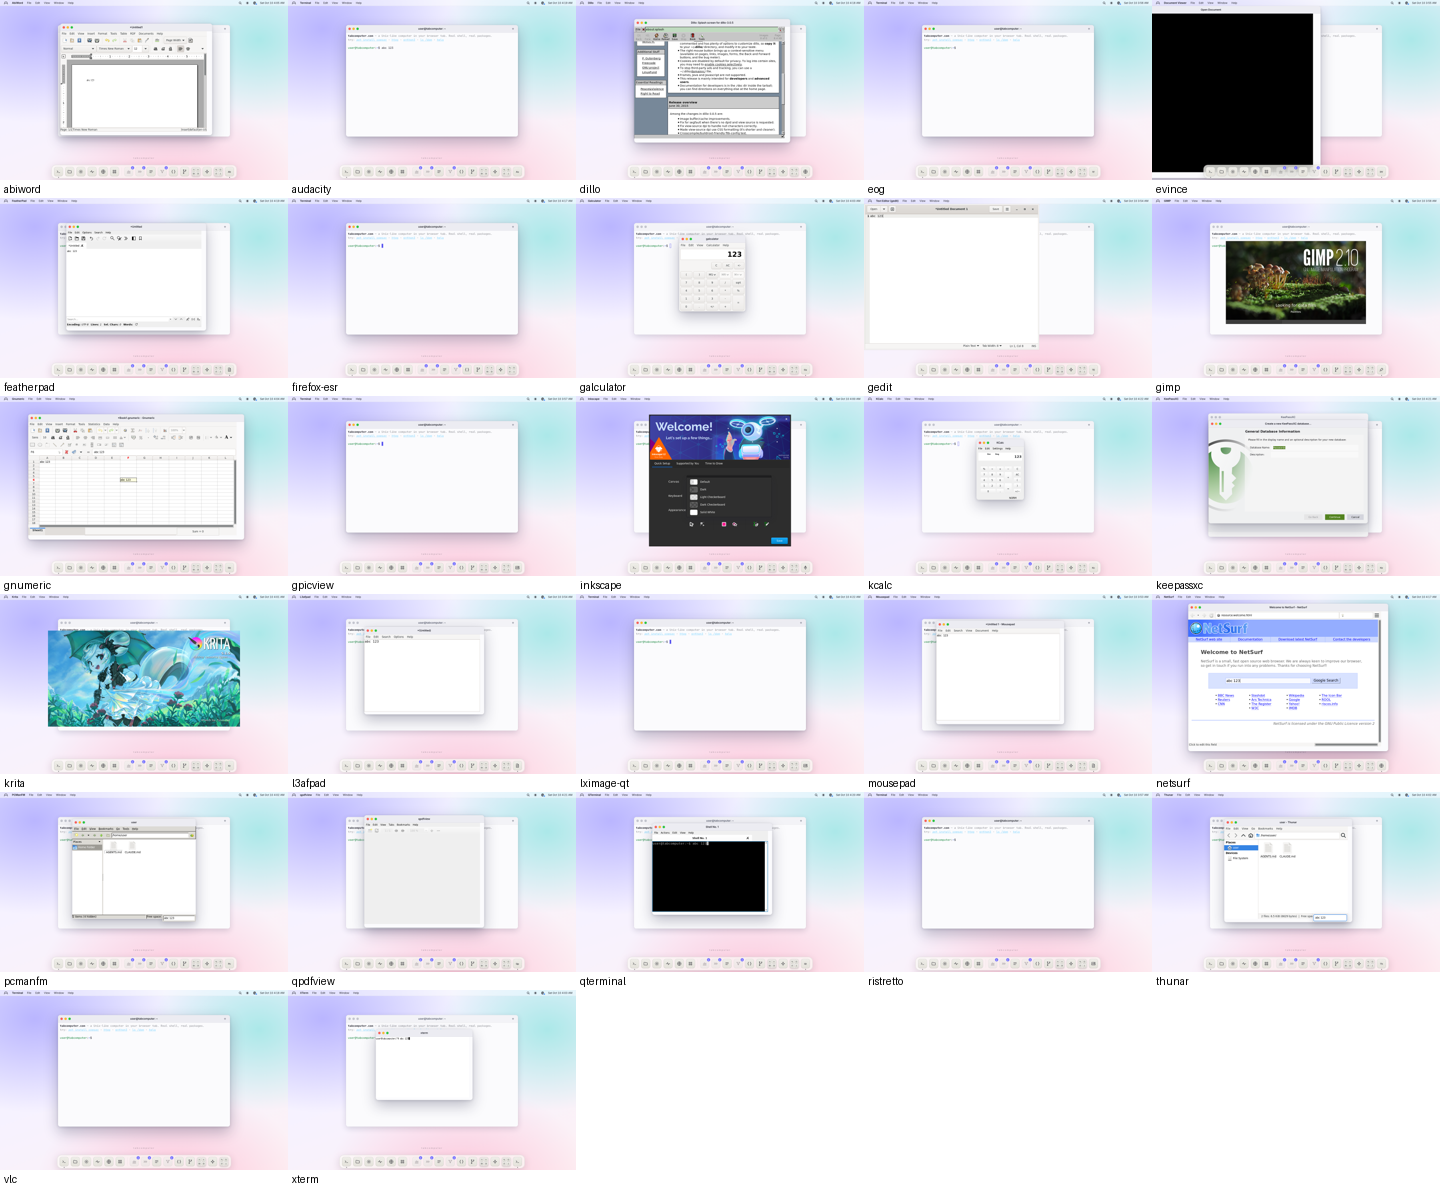
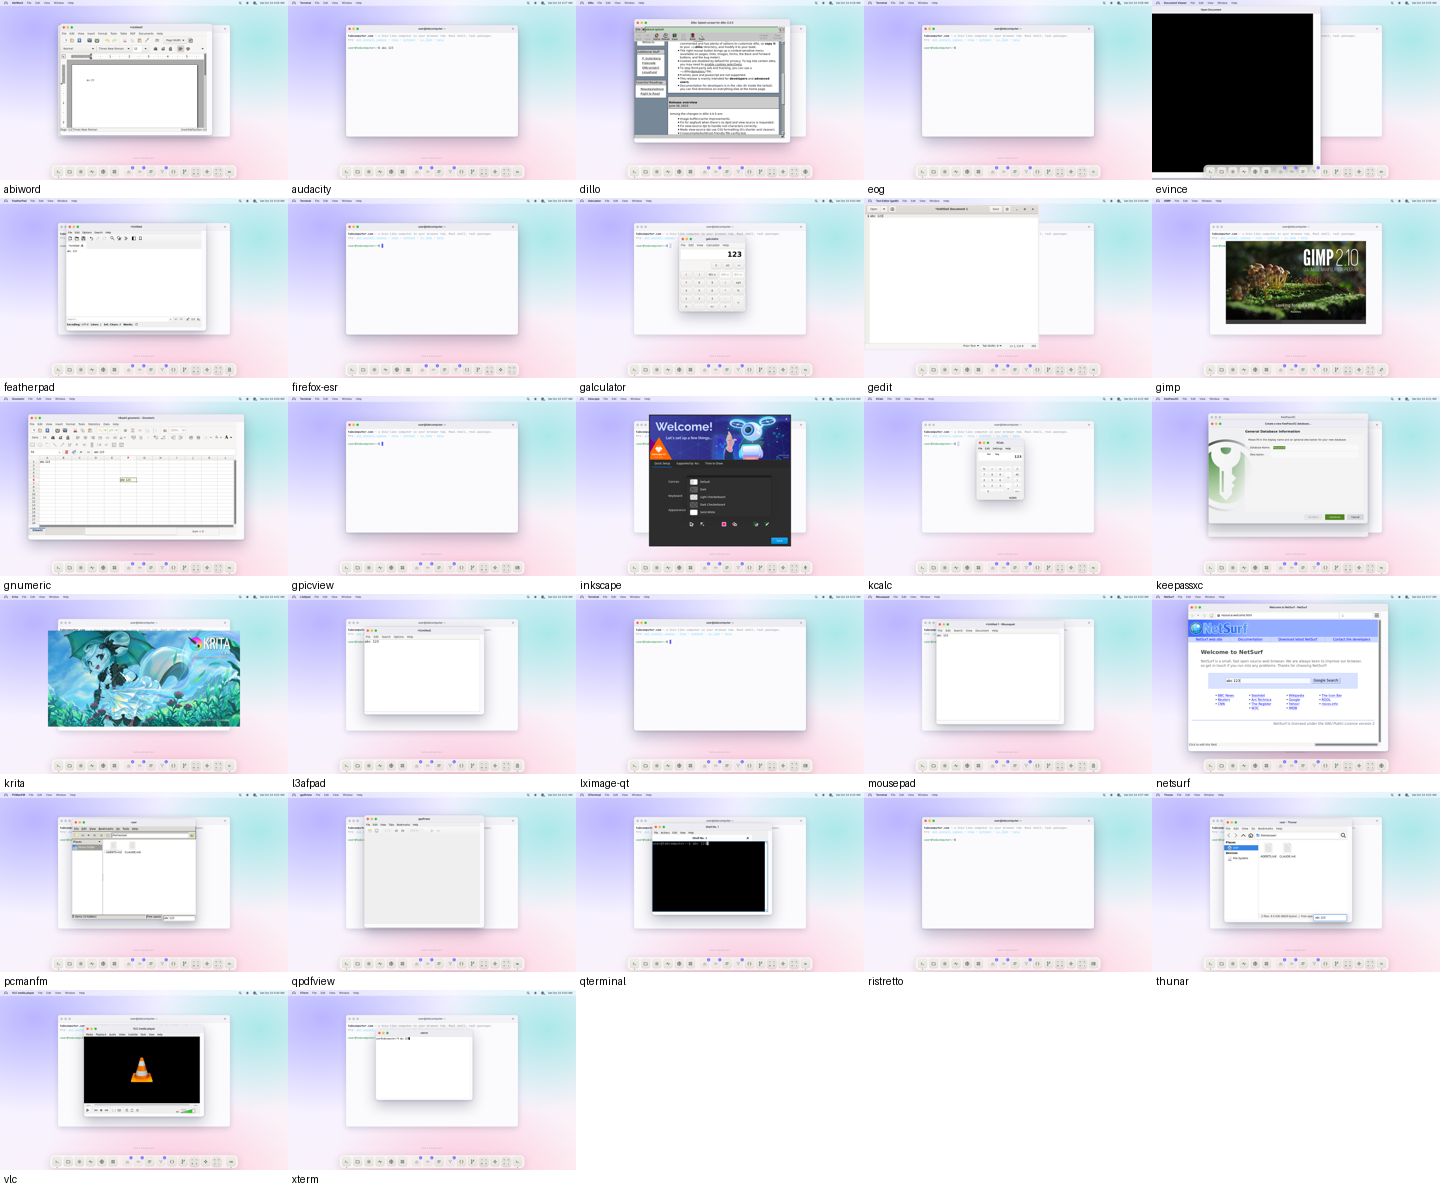
gui: Audacity and VLC run (engine fixes); scoreboard 27/26/20/20 of 29
Audacity is back in the Apps window. The render check looks at all of an
app's windows (VLC's largest surface is its blank video window).

Claude-Session: https://claude.ai/code/session_01BTnm46q6Kk6gwKSSRHohXj

Changed region(s): [[0.0312, 0.8721, 0.1562, 0.9655]]

diff --git a/src/gui/desktop-apps.ts b/src/gui/desktop-apps.ts
@@ -33,8 +33,7 @@ const APPS: [string, string, string, boolean, string?][] = [
   ['gnumeric', 'Gnumeric', 'gui/icons/gnumeric.png', true],
   ['abiword', 'AbiWord', 'gui/icons/abiword.png', true],
   ['keepassxc', 'KeePassXC', 'gui/icons/keepassxc.svg', true],
-  // stops at startup: SysV shared memory isn't there yet (docs/GUI_SCORE.md)
-  ['audacity', 'Audacity', '♫', false],
+  ['audacity', 'Audacity', '♫', true, 'first start takes a minute'],
   ['xterm', 'XTerm', 'gui/icons/xterm.svg', true],
   ['qterminal', 'QTerminal', '›_', true],
   ['xeyes', 'xeyes', '◉', true],

diff --git a/docs/GUI_SCORE.md b/docs/GUI_SCORE.md
@@ -4,7 +4,7 @@ Debian 12 GUI apps installed from the streaming manifest (`public/gui/apps.json`
 
 Columns: **installs**; **window**: a desktop window appears, with the time from launch (installed) to it; **renders**: its largest window isn't one flat colour after 8 s; **input**: focusing it and typing `abc 123` changes its pixels (or, if not, clicking into its middle and typing does, or Ctrl+O opens a window or changes them); **text**: the DOM text layer has spans for it (GTK via libshiro-text-hook.so, core X text; Qt and others draw pixels only).
 
-**29/29 install, 26/29 open a window, 24/29 render, 19/29 react to input, 19/29 have DOM text.**
+**29/29 install, 27/29 open a window, 26/29 render, 20/29 react to input, 20/29 have DOM text.**
 
 
 ### Editors & viewers
@@ -26,7 +26,7 @@ Columns: **installs**; **window**: a desktop window appears, with the time from 
 | gimp | gtk2 | 66.1 MB | 8.9 s | ✓ | 34 s | ✓ | ✓ | ✓ (2) |  |
 | inkscape | gtk3 | 83 MB | 14 s | ✓ | 54 s | ✓ | ✓ | ✓ (18) |  |
 | krita | qt5 | 118.3 MB | 8.4 s | ✓ | 14 s | ✓ | ✗ | ✓ (1) | input: its start screen has nothing to type into (passed in one run of three) |
-| blender | gl | 231.5 MB | 19 s | ✗ | – | – | – | – | exited (status 134) before a window; past OpenCV's CPU check (engine fix); now glibc aborts on PI-mutex futex ops (EINVAL in the x86 engine, reported) |
+| blender | gl | 231.5 MB | 18 s | ✗ | – | – | – | – | exited (status 134) before a window; past OpenCV's CPU check (engine fix); now glibc aborts on PI-mutex futex ops (EINVAL in the x86 engine, reported) |
 
 ### Desktop
 
@@ -49,11 +49,11 @@ Columns: **installs**; **window**: a desktop window appears, with the time from 
 
 | App | Toolkit | Download | Install | Window | First window | Renders | Input | Text | Notes |
 |---|---|---:|---:|:-:|---:|:-:|:-:|:-:|---|
-| firefox-esr | gtk3 | 125.1 MB | 22 s | ✓ | 246 s | ✗ | – | ✗ | past the getaddrinfo abort (fixed): its window opens after minutes, still blank; content processes crash (SIGSEGV) |
+| firefox-esr | gtk3 | 125.1 MB | 30 s | ✓ | 257 s | ✗ | – | ✗ | past the getaddrinfo abort (fixed): a blank window after minutes, gone seconds later; content processes crash (SIGSEGV) |
 | netsurf | gtk3 | 56.6 MB | 7.2 s | ✓ | 13 s | ✓ | ✓ | ✓ (42) |  |
 | dillo | fltk | 11.4 MB | 1.4 s | ✓ | 5.1 s | ✓ | ✓ | ✗ | FLTK draws its text as pixels |
-| vlc | qt5 | 39.4 MB | 4.7 s | ✓ | 12 s | ✗ | – | ✗ | quits at once: sigwait() is ENOSYS in the x86 engine (reported) |
-| audacity | gtk3 | 64.3 MB | 7.7 s | ✗ | – | – | – | – | error window: “Audacity Startup Failure”; SysV semaphores aren't forwarded by the x86 engine yet (shared memory is) |
+| vlc | qt5 | 39.4 MB | 5.1 s | ✓ | 13 s | ✓ | ✓ | ✓ (11) |  |
+| audacity | gtk3 | 64.3 MB | 7.9 s | ✓ | 37 s | ✓ | ✗ | ✗ | its first window is the first-run plugin scan; the main window follows (~70 s); wxWidgets text isn't reported |
 
 ### Qt
 
@@ -141,6 +141,15 @@ Second round (after the first scoreboard; the coordinator's list):
   `icon-theme.cache` for it. The installer now writes GTK's cache format
   itself (`src/gui/icon-cache.ts`) whenever a package adds icons there.
 
+- **Audacity and VLC run** on the engine fixes that followed the reports:
+  SysV shared memory and semaphores (Blink 0069/0077 and the kernel's
+  sysvsem) for Audacity's single-instance lock, `rt_sigtimedwait` (Blink
+  0087) for VLC's `sigwait()`. Audacity's first start scans its plug-ins
+  first; its main window follows (~70 s). The scoreboard's render check now
+  looks at all of an app's windows (VLC's largest surface was a blank
+  video window).
+  ![Audacity](screenshots/gui-audacity.png)
+
 Where the startup time goes (`LD_PRELOAD` timing of every file open; l3afpad,
 window at 8.2 s after the fixes, 9.9 s before): ~1.0 s of dynamic linking
 before any app code; GTK and GDK setup to ~3 s; icon themes 0.5 s (2.0 s
@@ -158,9 +167,7 @@ Known failures, not fixed here:
 |---|---|---|
 | blender | past OpenCV's CPU check now (engine fix: CPUID family 6); glibc aborts: "The futex facility returned an unexpected error code" — PI-mutex futex ops (LOCK_PI, UNLOCK_PI…) and REQUEUE/WAKE_OP return EINVAL | x86 engine (reported) |
 | libreoffice-writer | loads; an uncaught UNO `RuntimeException` at startup (release build: no SAL_LOG detail), then it hangs. LibreOffice headless (`soffice --headless --convert-to pdf`, libreoffice-writer-nogui) works (verified 2026-10-10) | not diagnosed |
-| firefox-esr | its window opens after ~4 min and stays blank; content processes die with SIGSEGV | not diagnosed |
-| audacity | "Unable to create shared memory segment": SysV shared memory is in now (engine), semaphores are in the kernel, the engine doesn't forward them yet | x86 engine (in progress) |
-| vlc | quits right after its window appears: its main thread's `sigwait()` returns ENOSYS (`rt_sigtimedwait`) | x86 engine (reported) |
+| firefox-esr | its window opens after ~4 min, blank, and goes away seconds later; its content processes die with SIGSEGV first | not diagnosed |
 
 Input ✗ is left on viewers with nothing open (eog, ristretto, gpicview,
 lximage-qt) and Krita's start screen: typing changes nothing there and none
@@ -169,7 +176,7 @@ of them answers Ctrl+O with a window in time. Text ✗ is left on FLTK
 gpicview), LXImage-Qt and the apps that don't start.
 
 Round by round (29 apps): first scoreboard 24 windows, 23 render, 18 input,
-14 DOM text; after the second round 26, 24, 19, 19.
+14 DOM text; after the second round (with the engine's fixes merged) 27, 26, 20, 20.
 
 ### Re-running
 
